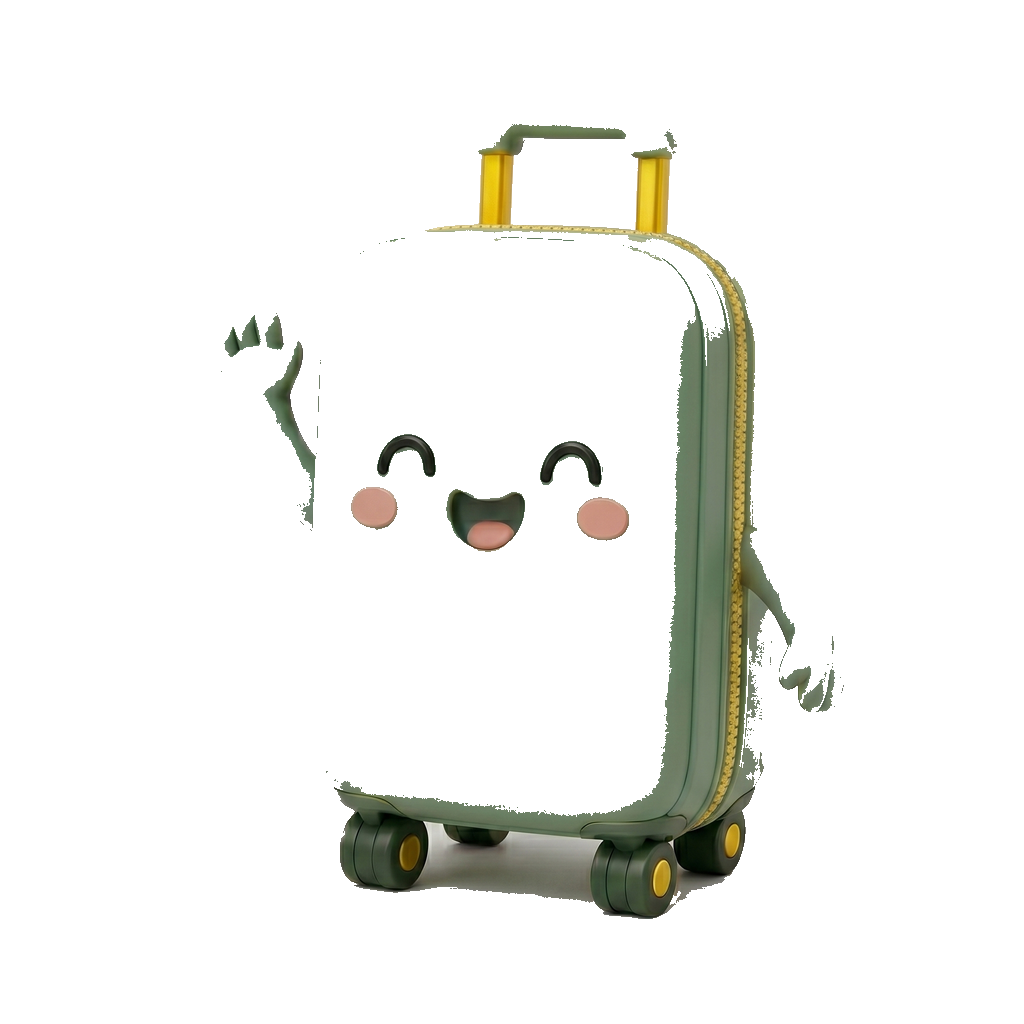
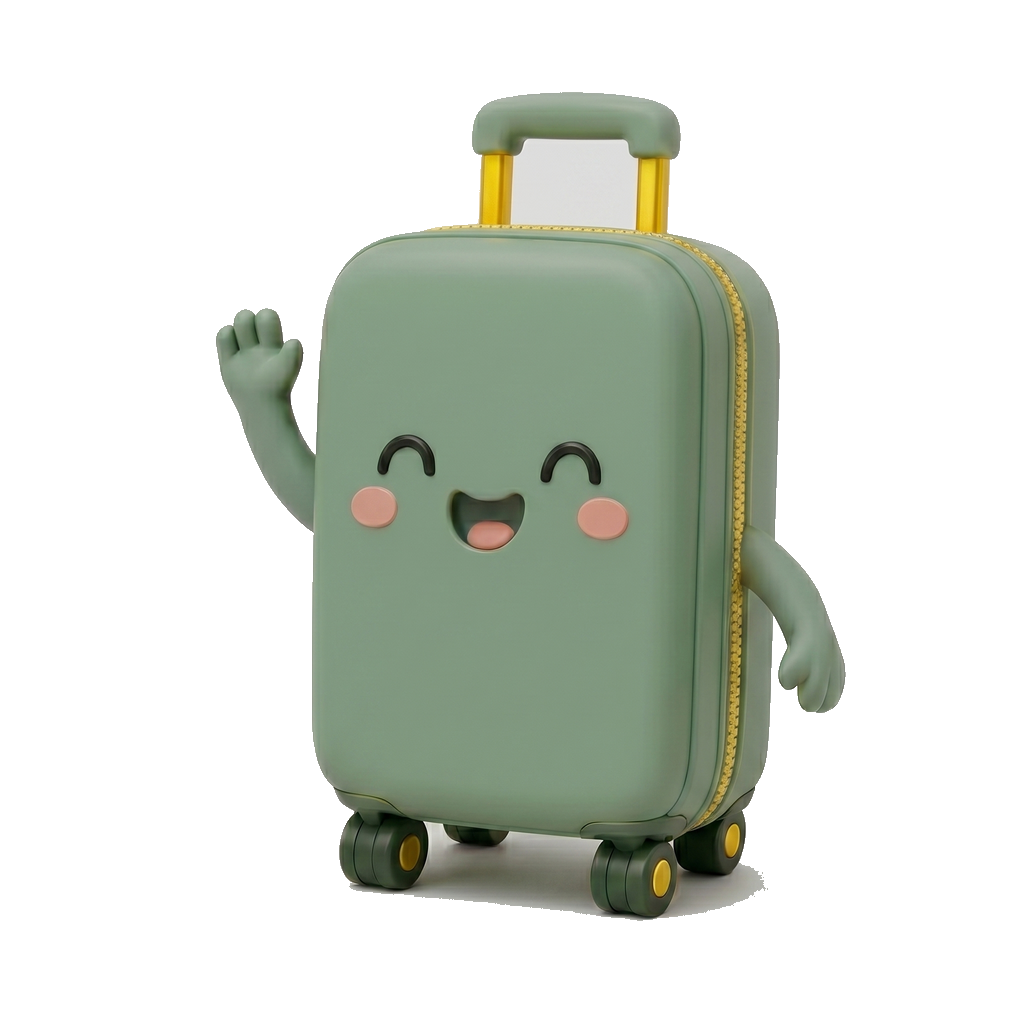
fix(brand): restore suitcase body opacity

diff --git a/tests/asset-images.test.ts b/tests/asset-images.test.ts
@@ -1,0 +1,123 @@
+import { readFileSync } from 'node:fs'
+import { join } from 'node:path'
+import { inflateSync } from 'node:zlib'
+import { describe, expect, it } from 'vitest'
+
+type PngImage = {
+  data: Uint8Array
+  height: number
+  width: number
+}
+
+const paeth = (left: number, up: number, upLeft: number) => {
+  const estimate = left + up - upLeft
+  const leftDistance = Math.abs(estimate - left)
+  const upDistance = Math.abs(estimate - up)
+  const upLeftDistance = Math.abs(estimate - upLeft)
+
+  if (leftDistance <= upDistance && leftDistance <= upLeftDistance) {
+    return left
+  }
+
+  return upDistance <= upLeftDistance ? up : upLeft
+}
+
+const readPng = (path: string): PngImage => {
+  const bytes = readFileSync(path)
+  const pngSignature = [137, 80, 78, 71, 13, 10, 26, 10]
+
+  expect([...bytes.subarray(0, 8)]).toEqual(pngSignature)
+
+  let offset = 8
+  let width = 0
+  let height = 0
+  const idatChunks: Buffer[] = []
+
+  while (offset < bytes.length) {
+    const length = bytes.readUInt32BE(offset)
+    offset += 4
+    const type = bytes.subarray(offset, offset + 4).toString('ascii')
+    offset += 4
+    const chunk = bytes.subarray(offset, offset + length)
+    offset += length + 4
+
+    if (type === 'IHDR') {
+      width = chunk.readUInt32BE(0)
+      height = chunk.readUInt32BE(4)
+
+      expect(chunk[8]).toBe(8)
+      expect(chunk[9]).toBe(6)
+      expect(chunk[12]).toBe(0)
+    }
+
+    if (type === 'IDAT') {
+      idatChunks.push(Buffer.from(chunk))
+    }
+
+    if (type === 'IEND') {
+      break
+    }
+  }
+
+  const raw = inflateSync(Buffer.concat(idatChunks))
+  const channels = 4
+  const stride = width * channels
+  const data = new Uint8Array(height * stride)
+  let rawOffset = 0
+
+  for (let y = 0; y < height; y += 1) {
+    const filter = raw[rawOffset]
+    rawOffset += 1
+    const row = raw.subarray(rawOffset, rawOffset + stride)
+    rawOffset += stride
+
+    for (let x = 0; x < stride; x += 1) {
+      const left = x >= channels ? data[y * stride + x - channels] : 0
+      const up = y > 0 ? data[(y - 1) * stride + x] : 0
+      const upLeft = y > 0 && x >= channels ? data[(y - 1) * stride + x - channels] : 0
+      let value = row[x]
+
+      if (filter === 1) {
+        value = (value + left) & 255
+      } else if (filter === 2) {
+        value = (value + up) & 255
+      } else if (filter === 3) {
+        value = (value + Math.floor((left + up) / 2)) & 255
+      } else if (filter === 4) {
+        value = (value + paeth(left, up, upLeft)) & 255
+      } else if (filter !== 0) {
+        throw new Error(`Unsupported PNG filter: ${filter}`)
+      }
+
+      data[y * stride + x] = value
+    }
+  }
+
+  return { data, height, width }
+}
+
+const pixelAt = (image: PngImage, x: number, y: number) => {
+  const index = (y * image.width + x) * 4
+
+  return {
+    a: image.data[index + 3],
+    b: image.data[index + 2],
+    g: image.data[index + 1],
+    r: image.data[index],
+  }
+}
+
+describe('brand image assets', () => {
+  it('keeps the suitcase background transparent without cutting out the green body', () => {
+    const image = readPng(join(process.cwd(), 'src/assets/lovv-suitcase-hi.png'))
+
+    expect(pixelAt(image, 20, 20).a).toBe(0)
+
+    const body = pixelAt(image, 512, 320)
+    expect(body.a).toBeGreaterThan(240)
+    expect(body.g).toBeGreaterThan(body.r)
+    expect(body.g).toBeGreaterThan(body.b)
+
+    expect(pixelAt(image, 512, 512).a).toBeGreaterThan(240)
+  })
+})